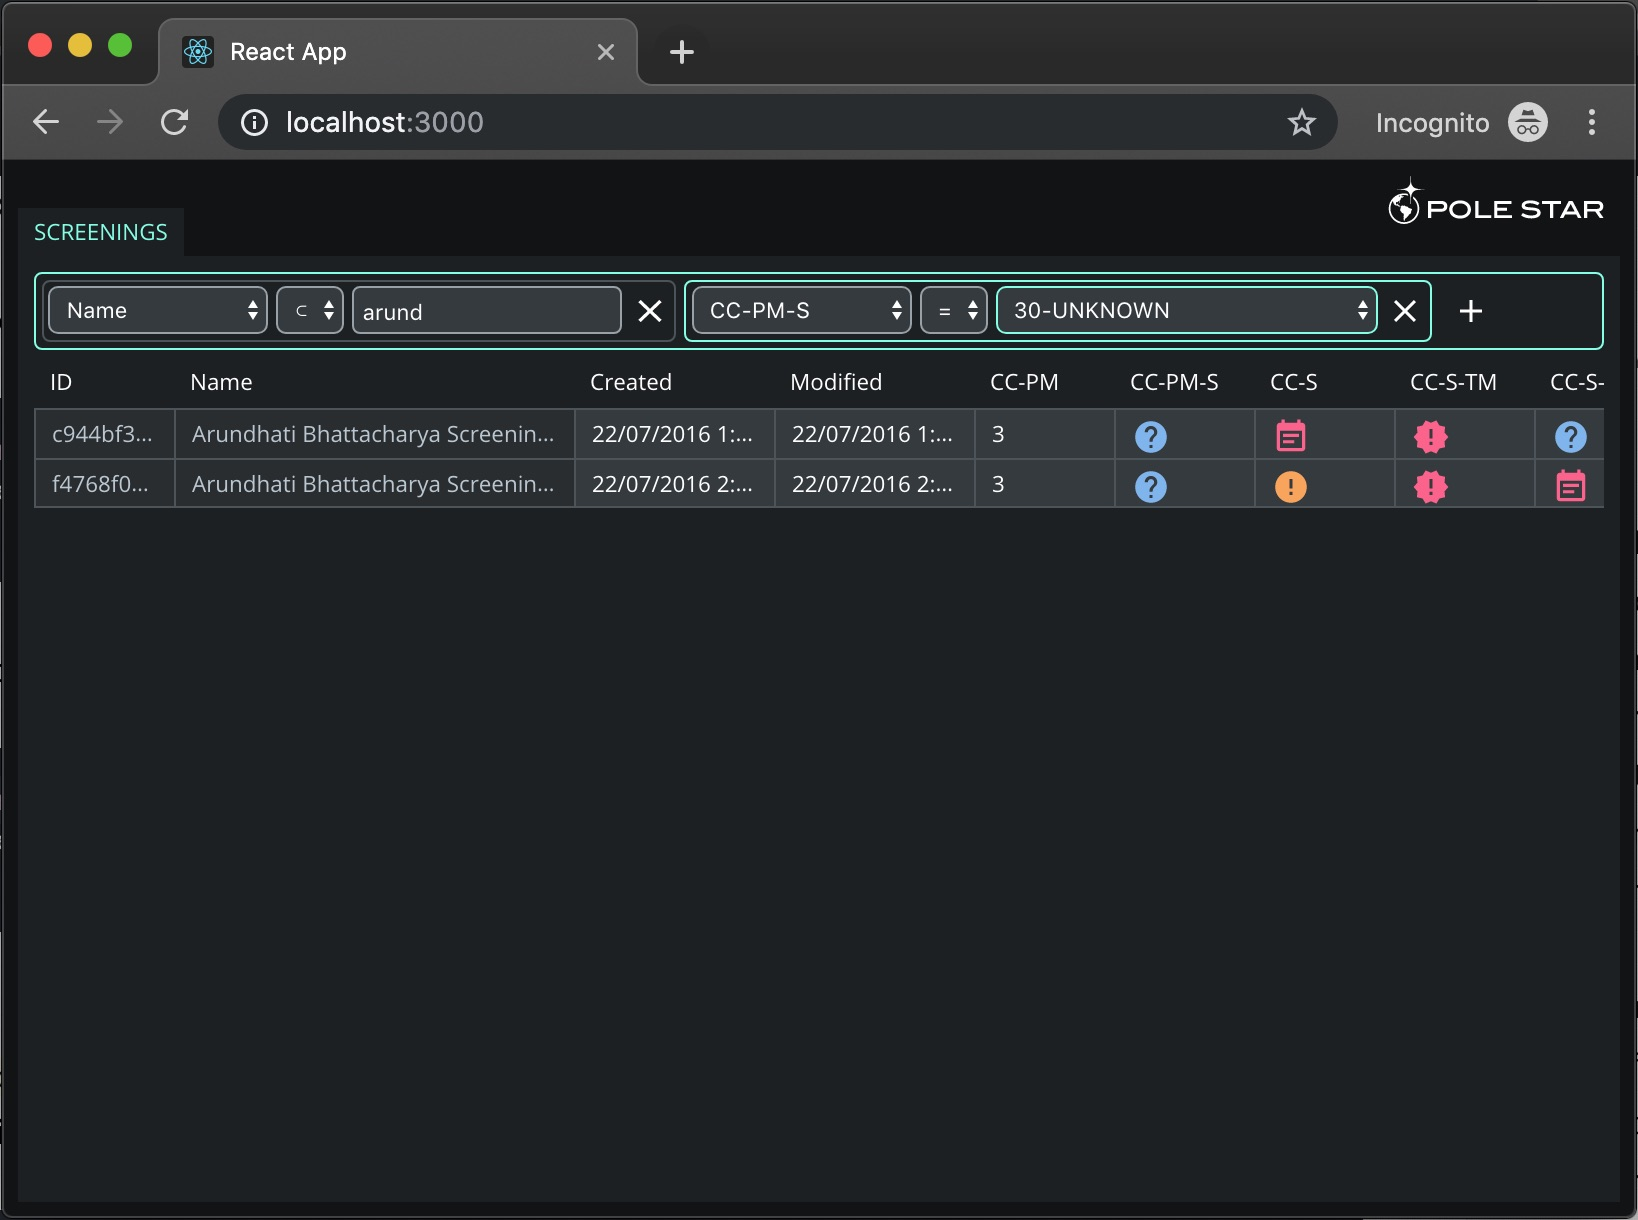
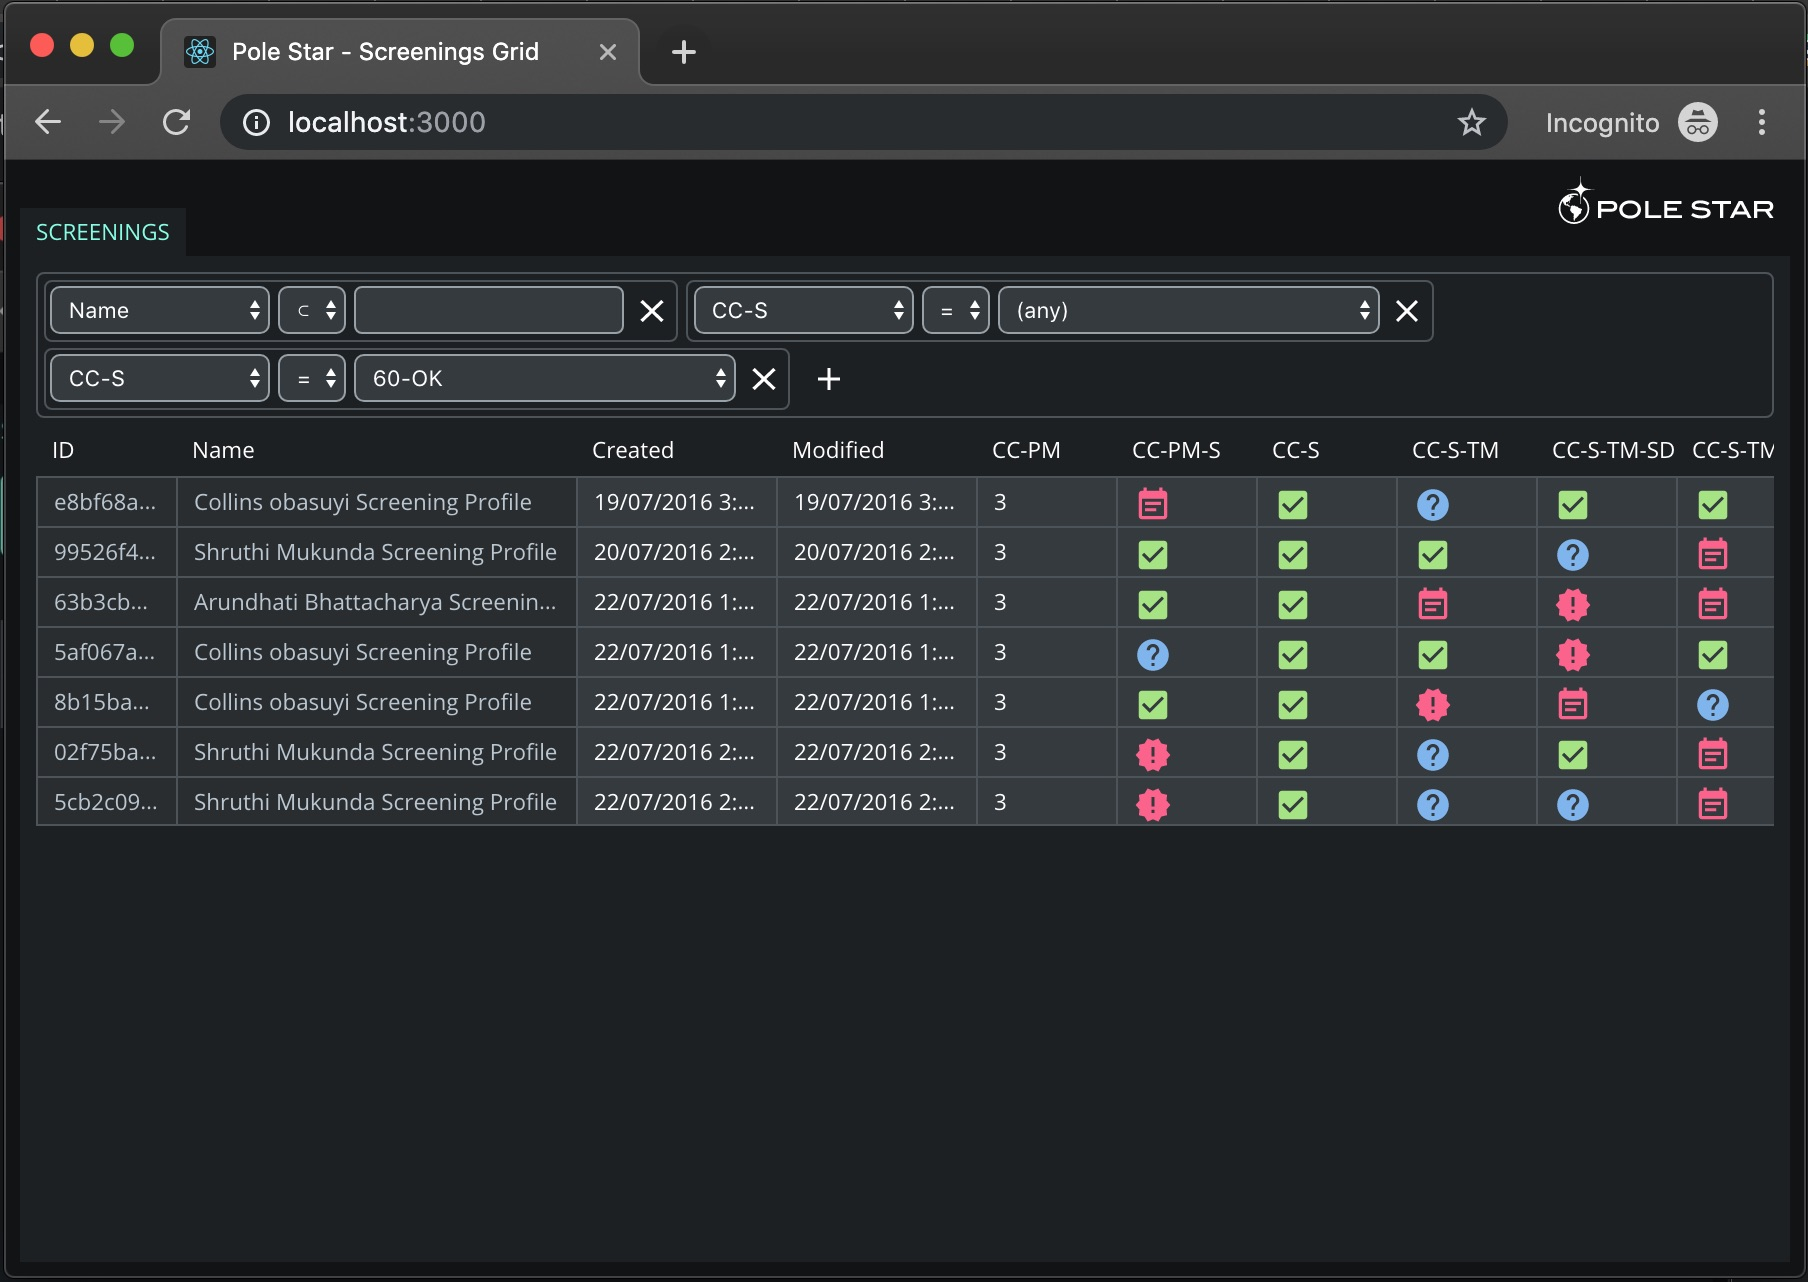
improvement: add title

Changed region(s): [[0.0, 0.0, 1.0, 0.6541], [0.0, 0.841, 1.0, 1.0], [0.9963, 0.6541, 1.0, 0.8098]]

diff --git a/public/index.html b/public/index.html
@@ -24,7 +24,7 @@
       work correctly both with client-side routing and a non-root public URL.
       Learn how to configure a non-root public URL by running `npm run build`.
     -->
-    <title>React App</title>
+    <title>Pole Star - Screenings Grid</title>
   </head>
   <body>
     <noscript>You need to enable JavaScript to run this app.</noscript>
